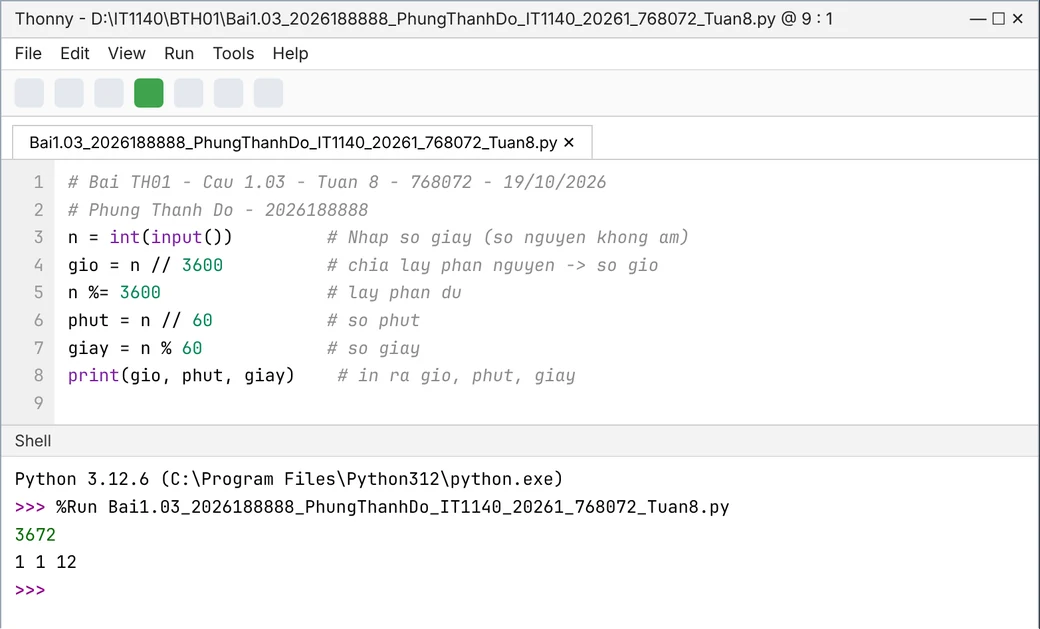
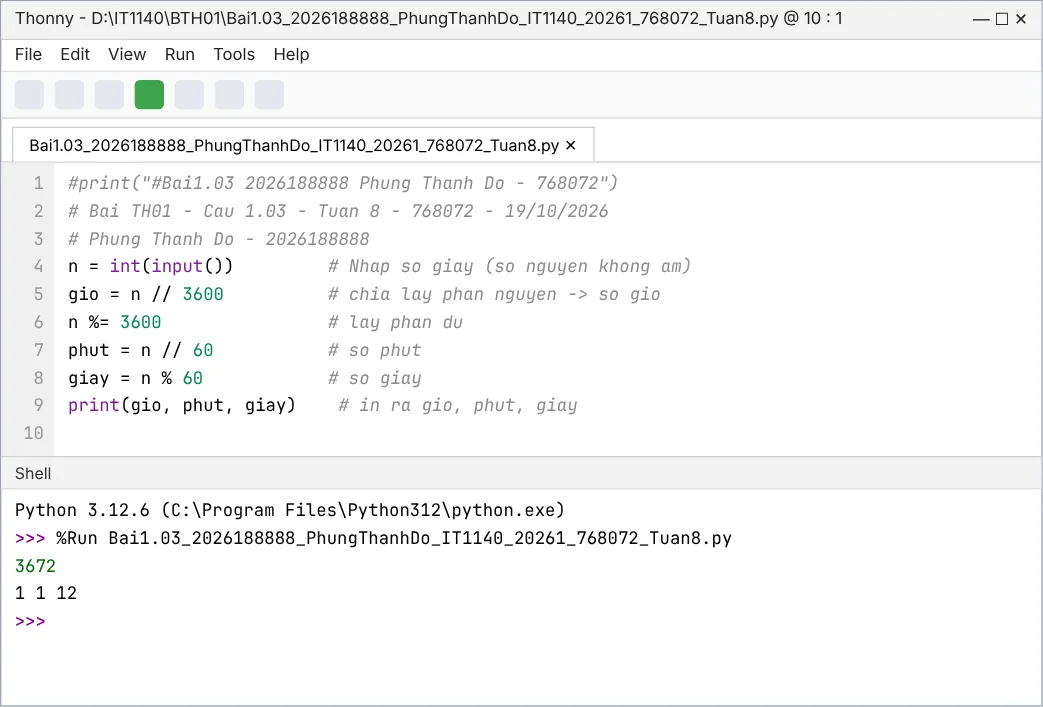
Thêm dòng #print định danh vào ảnh minh họa Thonny

diff --git a/index.html b/index.html
@@ -193,12 +193,11 @@
               <li><svg viewBox="0 0 24 24" fill="none" stroke="currentColor" stroke-width="2.2" stroke-linecap="round" stroke-linejoin="round"><circle cx="12" cy="12" r="9"/><path d="m8 12.5 2.8 2.7L16.5 9.5"/></svg><span>Các dòng code đầy đủ chú thích</span></li>
               <li><svg viewBox="0 0 24 24" fill="none" stroke="currentColor" stroke-width="2.2" stroke-linecap="round" stroke-linejoin="round"><circle cx="12" cy="12" r="9"/><path d="m8 12.5 2.8 2.7L16.5 9.5"/></svg><span>Căn chỉnh hình ảnh phù hợp để có thể nhìn rõ được nội dung trong ảnh.</span></li>
               <li><svg viewBox="0 0 24 24" fill="none" stroke="currentColor" stroke-width="2.2" stroke-linecap="round" stroke-linejoin="round"><circle cx="12" cy="12" r="9"/><path d="m8 12.5 2.8 2.7L16.5 9.5"/></svg><span>Ảnh 1 chụp trên Thonny / VS Code / IDE khác: thấy rõ tên file, code và kết quả chạy ở Shell / Terminal.</span></li>
-              <li><svg viewBox="0 0 24 24" fill="none" stroke="currentColor" stroke-width="2.2" stroke-linecap="round" stroke-linejoin="round"><circle cx="12" cy="12" r="9"/><path d="m8 12.5 2.8 2.7L16.5 9.5"/></svg><span>Code trên Thonny / VS Code phải có thêm dòng chú thích <code>#print("#Bai&lt;số câu&gt; &lt;MSSV&gt; &lt;Họ tên&gt; - &lt;Mã lớp&gt;")</code>, ví dụ <code>#print("#Bai1.1.1 202515747 Vu Minh Duc - 768077")</code>. Chỉ thêm dòng này trên Thonny / VS Code, không cần thêm khi nộp trên hệ thống.</span></li>
               <li><svg viewBox="0 0 24 24" fill="none" stroke="currentColor" stroke-width="2.2" stroke-linecap="round" stroke-linejoin="round"><circle cx="12" cy="12" r="9"/><path d="m8 12.5 2.8 2.7L16.5 9.5"/></svg><span>Ảnh 2 chụp trên hệ thống: là kết quả sau khi ấn "Chọn", và có màu "xanh lá" ở khu vực testcases.</span></li>
             </ul>
             <div class="figs">
               <figure>
-                <img class="shot" src="img/thonny.webp" loading="lazy" decoding="async" width="1040" height="629" alt="Minh họa câu 1.03 chạy trên Thonny: tên file theo cú pháp mới, code có chú thích, Shell nhập 3672 in ra 1 1 12">
+                <img class="shot" src="img/thonny.webp" loading="lazy" decoding="async" width="1043" height="707" alt="Minh họa câu 1.03 chạy trên Thonny: tên file theo cú pháp mới, code có chú thích, Shell nhập 3672 in ra 1 1 12">
                 <figcaption><b>Ảnh 1</b> · Chạy trên Thonny (minh họa câu 1.03)</figcaption>
               </figure>
               <figure>
